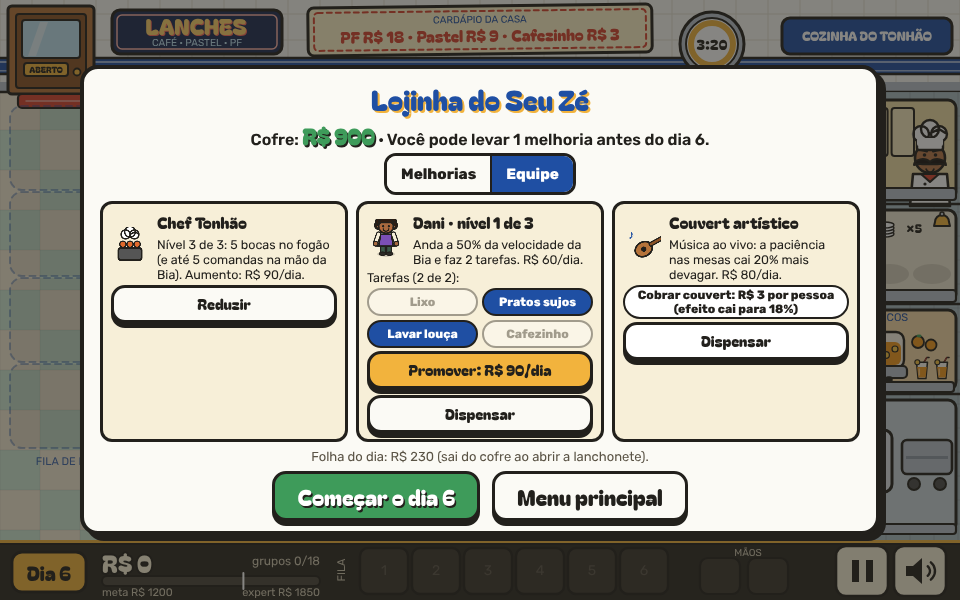
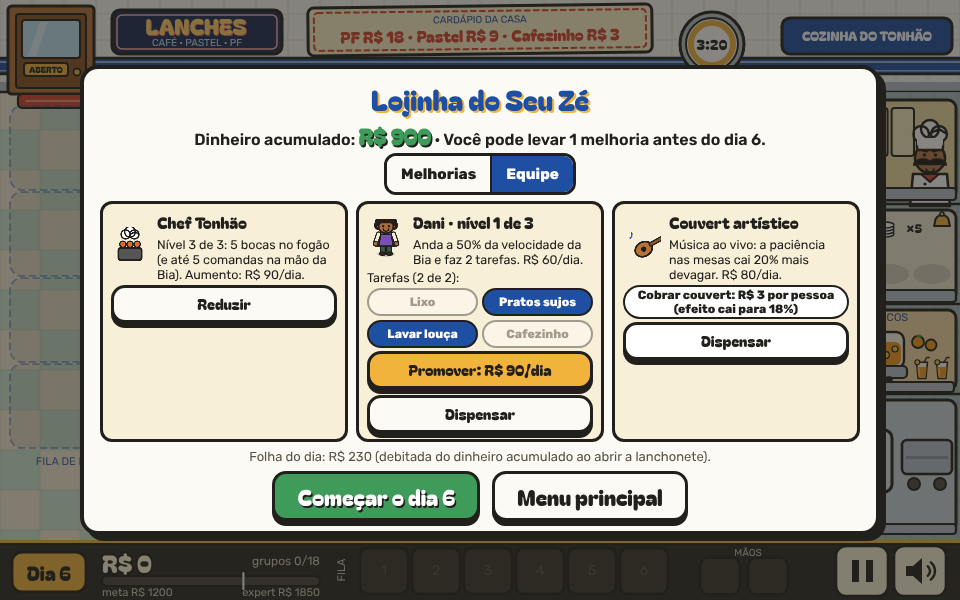
v5: dinheiro acumulado no lugar do cofre, lixeira transborda e Dani lava no ritmo dela
- Todo o faturamento vai para o dinheiro acumulado; a folha é debitada
  dele no início do dia (quem não puder ser pago não trabalha)
- Bebidas que não cabem na lixeira: ela aceita todas uma última vez e a
  Bia esvazia em seguida (pratos, louça e comandas ficam na mão)
- Dani lava a 50/65/80% do ritmo da Bia, como no deslocamento
- smoke6 com 48 testes

Claude-Session: https://claude.ai/code/session_014eUM1TJPrQ4AtSgVeDzYRp

Changed region(s): [[0.1875, 0.21, 0.8125, 0.27], [0.25, 0.75, 0.75, 0.78]]

diff --git a/lanchonete.html b/lanchonete.html
@@ -220,7 +220,7 @@ table.rank tr.me td{background:#fbe7a8}
     <div class="ov" id="ov-shop">
       <div class="panel">
         <h2>Lojinha do Seu Zé</h2>
-        <p>Cofre: <span class="bank" id="shop-bank">R$ 0</span> &middot; <span id="shop-limit">Você pode levar 1 melhoria por dia.</span></p>
+        <p>Dinheiro acumulado: <span class="bank" id="shop-bank">R$ 0</span> &middot; <span id="shop-limit">Você pode levar 1 melhoria por dia.</span></p>
         <div class="rankbar"><div class="seg" id="shop-tabs" role="group" aria-label="Lojinha">
           <button type="button" data-v="melhorias" aria-pressed="true">Melhorias</button>
           <button type="button" data-v="equipe" aria-pressed="false">Equipe</button>
@@ -371,7 +371,8 @@ const CUSTOMER_TYPES = {
 /* cliente VIP: modificador de grupo (qualquer tipo menos entregador). Fura a fila, tem menos
    paciência, paga gorjeta extra e dá bônus se sair com 5 corações; bravo, a multa dobra. */
 /* ============================================================
-   EQUIPE (v5): salários saem do cofre ao abrir a lanchonete
+   EQUIPE (v5): a folha do dia é debitada do dinheiro acumulado ao abrir a
+   lanchonete; sem dinheiro para pagar, o funcionário não trabalha naquele dia
    ============================================================ */
 const STAFF = {
   tonhao:  { levels:[ { slots:3, pay:0 }, { slots:4, pay:40 }, { slots:5, pay:90 } ] },
@@ -384,7 +385,6 @@ const DANI_TASKS = [
   { id:'lavar',  name:'Lavar a louça',  short:'Lavar louça' },
   { id:'cafe',   name:'Servir cafezinho', short:'Cafezinho' }
 ];
-const INCOME = 0.3;                                   // parte do faturamento de todo dia que vai para o cofre
 const WASH = { base:0.3, perPile:1.5 };               // segundos na pia
 const TRASH = { cap:8, empty:2, smell:0.15 };         // lixeira: capacidade, tempo para esvaziar, cheiro quando cheia
 function couvertEffect(eq){ return STAFF.couvert.effect * (eq.taxa ? 1 - STAFF.couvert.feeCut : 1); }
@@ -899,7 +899,11 @@ class Waitress {
       const piles = g.dani.does('lavar') ? 0 : this.hands.filter(h => h.kind === 'dirty').length + g.kitchen.sinkN;
       return WASH.base + WASH.perPile * piles;
     }
-    if (a.type === 'trash' && !this.hands.length && g.trash > 0) return TRASH.empty;
+    if (a.type === 'trash'){
+      const drinks = this.hands.filter(h => DRINKS[h.kind]).length;
+      if (!this.hands.length && g.trash > 0) return TRASH.empty;
+      if (drinks && drinks > TRASH.cap - g.trash) return 0.3 + TRASH.empty;   // não cabe: joga tudo e esvazia em seguida
+    }
     return 0.3;
   }
   update(dt){
@@ -995,9 +999,9 @@ class Waitress {
         if (!this.hands.length && g.trash > 0){ g.trash = 0; g.stats.emptied++; g.addText(this.x, this.y - 82, 'Lixo pra fora!', PAL.ok, 15); Sfx.noise(0.3, 0.1, 0, 400); return; }
         return this.fail(this.hands.length ? 'Mãos ocupadas!' : '?');
       }
-      const room = TRASH.cap - g.trash;
-      if (room <= 0) return this.fail('Lixo cheio!');
-      const fora = lixo.slice(0, room);
+      // se as bebidas não cabem, a lixeira aceita todas uma última vez e a Bia já esvazia em seguida
+      const overflow = lixo.length > TRASH.cap - g.trash;
+      const fora = lixo;
       fora.forEach(h => this.hands.splice(this.hands.indexOf(h), 1));
       g.addTrash(fora.length);
       const fine = fora.reduce((v,h) => v + DRINK_PRICE[h.kind] / 2, 0);
@@ -1006,6 +1010,7 @@ class Waitress {
       g.addText(this.x, this.y - 82, 'No lixo!', PAL.perigo, 15);
       g.addText(this.x, this.y - 104, '-' + (fine % 1 ? fine.toFixed(2).replace('.', ',') : fine), PAL.perigo, 18);
       Sfx.noise(0.18, 0.12, 0, 500); Sfx.tone(160, 0.12, 'square', 0.04);
+      if (overflow){ g.trash = 0; g.stats.emptied++; g.addText(this.x, this.y - 126, 'Lixo pra fora!', PAL.ok, 15); }
       return;
     }
     if (a.type === 'sink'){
@@ -1132,7 +1137,8 @@ class Helper {
     if (Math.hypot(this.x - DANI_HOME.x, this.y - DANI_HOME.y) > 4) return this.go(DANI_HOME, null);
   }
   duration(st){
-    if (st.type === 'sink') return WASH.base + (this.does('lavar') ? WASH.perPile * (this.g.kitchen.sinkN + this.hands.filter(h => h.kind === 'dirty').length) : 0);
+    // lava no mesmo ritmo do deslocamento: 50% da Bia leva o dobro do tempo por pilha
+    if (st.type === 'sink') return WASH.base + (this.does('lavar') ? WASH.perPile / this.spec.speed * (this.g.kitchen.sinkN + this.hands.filter(h => h.kind === 'dirty').length) : 0);
     if (st.type === 'trash') return TRASH.empty;
     return 0.35;
   }
@@ -1259,7 +1265,7 @@ class Game {
   }
   startDay(n){ this.resetDay(n); this.setState('intro'); }
   startEndless(){ this.resetDay(0); this.setState('intro'); }
-  /* paga a folha do dia com o cofre; quem não couber no cofre é dispensado (couvert, Dani, aumento do Tonhão) */
+  /* debita a folha do dia do dinheiro acumulado; quem não puder ser pago é dispensado (couvert, Dani, aumento do Tonhão) */
   payDay(){
     const eq = this.save.equipe; this.unpaid = [];
     while (payroll(eq) > this.save.bank){
@@ -1276,7 +1282,7 @@ class Game {
   }
   begin(){
     this.payDay(); this.setState('playing');
-    if (this.unpaid.length) this.addText(W/2, 300, 'Cofre sem dinheiro: sem ' + this.unpaid.join(', ') + ' hoje', PAL.perigo, 20);
+    if (this.unpaid.length) this.addText(W/2, 300, 'Sem dinheiro para pagar: sem ' + this.unpaid.join(', ') + ' hoje', PAL.perigo, 20);
   }
   get trashFull(){ return this.trash >= TRASH.cap; }
   /* restos no lixo: +n, até encher */
@@ -1590,7 +1596,7 @@ class Game {
     if (m >= d.expert) stars = 2;
     if (m >= d.expert && this.stats.lost === 0) stars = 3;
     const prevBest = this.save.best[d.n] || 0;
-    const income = Math.round(m * INCOME) + Math.max(0, m - prevBest);
+    const income = m;                 // todo o faturamento do dia vai para o dinheiro acumulado
     this.save.bank += income;
     this.save.best[d.n] = Math.max(prevBest, m);
     this.save.stars[d.n] = Math.max(this.save.stars[d.n] || 0, stars);
@@ -1602,7 +1608,7 @@ class Game {
   }
   finishEndless(){
     const pts = Math.round(this.money);
-    const income = Math.round(pts * INCOME);
+    const income = pts;
     this.save.bank += income; writeSave(this.save);
     this.endless = { income, paid:this.paid, pontos:pts, tempo:Math.floor(this.elapsed), served:this.stats.served, lost:this.stats.lost, full:this.stats.full, chain:this.stats.chain, vip:this.stats.vip, juice:this.stats.juice };
     this.setState('endlessend');
@@ -1619,7 +1625,7 @@ class Game {
     this.resetDay(this.shopNext);   // o salão ao fundo já mostra o dia que vem
     this.setState('shop');
   }
-  /* equipe: mudanças à vontade na lojinha, desde que o cofre pague a folha do próximo dia */
+  /* equipe: mudanças à vontade na lojinha, desde que o dinheiro acumulado pague a folha do próximo dia */
   setStaff(key, val){
     const eq = this.save.equipe, old = eq[key];
     eq[key] = val;
@@ -3072,7 +3078,7 @@ function buildShop(){
   $('shop-limit').textContent = game.shopBought ? 'Melhoria do dia ' + game.shopNext + ' já escolhida.' : 'Você pode levar 1 melhoria antes do dia ' + game.shopNext + '.';
   $('btn-shop-go').textContent = 'Começar o dia ' + game.shopNext;
   const f = payroll(game.save.equipe);
-  $('shop-folha').textContent = f ? 'Folha do dia: ' + fmt(f) + ' (sai do cofre ao abrir a lanchonete).' : 'Sem folha: contrate na aba Equipe. Os salários saem do cofre a cada dia.';
+  $('shop-folha').textContent = f ? 'Folha do dia: ' + fmt(f) + ' (debitada do dinheiro acumulado ao abrir a lanchonete).' : 'Sem folha: contrate na aba Equipe. Os salários são debitados do dinheiro acumulado no início de cada dia.';
   if (shopTab === 'equipe') return buildEquipe(grid);
   UPGRADES.forEach(u => {
     const own = !!game.up[u.id];
@@ -3099,7 +3105,7 @@ function buildEnd(){
   $('end-money').textContent = 'Você faturou ' + fmt(r.money) + ' (meta ' + fmt(r.meta) + ' · expert ' + fmt(r.expert) + ')';
   const st = $('end-stats');
   clearEl(st);
-  const rows = [['Atendidos', r.served],['Perdidos', r.lost],['Não couberam', r.full],['Maior corrente', '×' + r.chain],['Para o cofre', '+' + fmt(r.income) + (r.paid ? ' (folha paga: ' + fmt(r.paid) + ')' : '')],['Cofre', fmt(game.save.bank)]];
+  const rows = [['Atendidos', r.served],['Perdidos', r.lost],['Não couberam', r.full],['Maior corrente', '×' + r.chain],['Folha paga hoje', r.paid ? '-' + fmt(r.paid) : '-'],['Dinheiro acumulado', fmt(game.save.bank)]];
   if (r.trash) rows.splice(2, 0, ['Na lixeira', r.trash + ' bebida' + (r.trash > 1 ? 's' : '')]);
   if (r.juice || r.juiceMiss) rows.splice(2, 0, ['Sucos', r.juice + ' entregue' + (r.juice === 1 ? '' : 's') + (r.juiceMiss ? ' · ' + r.juiceMiss + ' mesa' + (r.juiceMiss > 1 ? 's' : '') + ' sem suco' : '')]);
   if (r.vip || r.vipLost) rows.splice(2, 0, ['VIPs', r.vip + ' atendido' + (r.vip === 1 ? '' : 's') + (r.vipLost ? ' · ' + r.vipLost + ' bravo' + (r.vipLost > 1 ? 's' : '') : '')]);
@@ -3134,7 +3140,7 @@ function buildEndless(){
   if (!r) return;
   const st = $('endless-stats');
   clearEl(st);
-  [['Pontos', r.pontos],['Tempo sobrevivido', mmssUp(r.tempo)],['Grupos atendidos', r.served],['VIPs atendidos', r.vip],['Sucos entregues', r.juice],['Maior corrente', '×' + r.chain],['Não couberam na fila', r.full],['Para o cofre', '+' + fmt(r.income)]].forEach(p => {
+  [['Pontos', r.pontos],['Tempo sobrevivido', mmssUp(r.tempo)],['Grupos atendidos', r.served],['VIPs atendidos', r.vip],['Sucos entregues', r.juice],['Maior corrente', '×' + r.chain],['Não couberam na fila', r.full],['Dinheiro acumulado', fmt(game.save.bank)]].forEach(p => {
     st.appendChild(el('span', null, p[0])); st.appendChild(el('b', null, String(p[1])));
   });
   buildSaveForm($('endless-save'), 'semfim');
@@ -3342,7 +3348,7 @@ fit();
 try { Rank.init(); } catch(e) {}
 game.setState('menu');
 window.__game = game;
-window.__lcc = { STAFF, DANI_TASKS, TRASH, WASH, INCOME, payroll, couvertEffect, dishStock, normSave, Helper, JUICE, KITCHEN_SLOTS, handLayout, trayOk, Game, Group, Table, Kitchen, Waitress, DAYS, UPGRADES, CUSTOMER_TYPES, LAYOUT, PAL, Sfx, findPath, render, Rank, sortRows, cleanName, normName, CMD, ENDLESS, VIP, rk, renderRank, openRank, closeRank, LS, lsGet, lsSet, loadSave };
+window.__lcc = { STAFF, DANI_TASKS, TRASH, WASH, payroll, couvertEffect, dishStock, normSave, Helper, JUICE, KITCHEN_SLOTS, handLayout, trayOk, Game, Group, Table, Kitchen, Waitress, DAYS, UPGRADES, CUSTOMER_TYPES, LAYOUT, PAL, Sfx, findPath, render, Rank, sortRows, cleanName, normName, CMD, ENDLESS, VIP, rk, renderRank, openRank, closeRank, LS, lsGet, lsSet, loadSave };
 window.requestAnimationFrame(frame);
 
 })();

diff --git a/docs/spec-v5.md b/docs/spec-v5.md
@@ -2,11 +2,12 @@
 
 Pedido: sobra dinheiro no cofre. Entram contratações com salário, aumento do Tonhão, louça limitada com a Bia lavando, lixo que enche e couvert artístico. A proposta original tinha robôs para o lixo e a louça, mas o usuário vetou: só pessoas.
 
-## Economia
-- O cofre recebe **30% do faturamento de todo dia** (`INCOME`), mais o que passar do recorde do dia. No Turno sem fim, só os 30%.
-- **Folha do dia** (`payroll(equipe)`): sai do cofre ao clicar em "Abrir a lanchonete" (`Game.payDay`), inclusive no Turno sem fim. A meta continua sobre o faturamento bruto.
-- **Cofre sem dinheiro para a folha:** dispensa, nesta ordem, o couvert, a Dani e um nível de aumento do Tonhão, e avisa na tela.
-- **Na lojinha** (`setStaff`): só deixa contratar o que o cofre consegue pagar no dia seguinte. Contratar e dispensar não contam no limite de 1 melhoria por dia.
+## Economia (revisada a pedido do usuário: sem "cofre")
+- **Dinheiro acumulado** (`save.bank`): recebe **todo o faturamento** de cada dia de carreira e de cada Turno sem fim. Antes era só o que passava do recorde, e na primeira v5 eram 30%.
+- **Folha do dia** (`payroll(equipe)`): é **debitada no início do dia**, ao clicar em "Abrir a lanchonete" (`Game.payDay`). O faturamento do dia nunca entra na conta para pagar a equipe.
+- **Sem dinheiro para pagar todos:** o funcionário não trabalha naquele dia e é dispensado, nesta ordem: couvert, Dani, um nível de aumento do Tonhão. Aparece o aviso "Sem dinheiro para pagar: …".
+- **Contratar na lojinha** (`setStaff`): só é possível se o dinheiro acumulado cobrir a folha nova. Contratar e dispensar não contam no limite de 1 melhoria por dia.
+- **Telas:** a lojinha mostra "Dinheiro acumulado"; o fim do dia mostra "Folha paga hoje" e "Dinheiro acumulado".
 - **Save:** `save.equipe = { tonhao, dani, daniTasks, couvert, taxa }`, normalizado por `normEquipe`.
 
 ## Lojinha com abas
@@ -49,6 +50,7 @@ Pedido: sobra dinheiro no cofre. Entram contratações com salário, aumento do 
 
 ## Lixeira que enche (`TRASH`)
 - Capacidade de 8. Enche com os restos de cada pilha lavada e com cada bebida jogada fora.
+- **Sem espaço para as bebidas que a Bia traz** (lixeira cheia ou vagas a menos): a lixeira aceita todas as bebidas uma última vez e a Bia já a esvazia em seguida (0,3 s + 2 s). Pratos e louça suja ficam na mão. Comandas também ficam, para não perder pedidos.
 - **Cheia:** recusa bebidas ("Lixo cheio!") e o cheiro faz a paciência de todos cair 15% mais rápido. Aparecem a placa "CHEIO" e as linhas de cheiro, e o nível fica numa régua de 8 tracinhos ao lado da lixeira.
 - **Esvaziar:** a Bia toca na lixeira de mãos vazias e leva 2 s. A Dani faz isso se a tarefa estiver escolhida.
 

diff --git a/docs/RESUMO.md b/docs/RESUMO.md
@@ -1,7 +1,7 @@
 # Resumo do projeto e das alterações (até 14/10/2026)
 
 ## Estado atual
-- **Versão:** v5, publicada como Versão 10 do artifact https://claude.ai/artifact/MJxrgDg8S4akvg47SoQAvj (privado).
+- **Versão:** v5, publicada como Versão 11 do artifact https://claude.ai/artifact/MJxrgDg8S4akvg47SoQAvj (privado).
 - **Branch:** `claude/elegant-curie-sgcl11` no repositório `aarescigno/Lanchonete-corre-corre`.
 - **Arquivos publicados:** `lanchonete.html` (página), mais `versoes/v1.html`, `versoes/v2.html`, `versoes/v3.html` e `versoes/v4.html`, abertos pelo painel Versões.
 - **Capacidades declaradas (mantidas ao republicar sem `capabilities`):**
@@ -44,12 +44,13 @@
 7. **Lojinha antes de cada dia**: do dia 2 em diante, escolher o dia (ou repetir) abre a lojinha primeiro, com "Começar o dia N" e "Menu principal"; ainda 1 melhoria por dia. O fim do dia oferece "Melhorias e dia N+1" e "Menu principal".
 
 8. **v5, Equipe** (ver `docs/spec-v5.md`):
-   - **Economia:** o cofre recebe 30% do faturamento de todo dia; a folha sai do cofre ao abrir a lanchonete.
+   - **Economia (sem "cofre"):** todo o faturamento vai para o dinheiro acumulado; a folha é debitada dele no início do dia.
    - **Lojinha** com abas Melhorias e Equipe.
    - **Tonhão:** aumento de 3 para 4 e 5 bocas, com +R$ 40 e +R$ 90 por dia.
    - **Dani, a ajudante (sem robôs):** níveis com 50%, 65% e 80% da velocidade da Bia e 2, 2 e 3 tarefas, por R$ 60, R$ 90 e R$ 135 por dia. Tarefas escolhidas na lojinha: lixo, pratos sujos, lavar louça e cafezinho.
    - **Louça:** limitada a partir do dia 3; lavar leva 1,5 s por pilha; sem prato limpo, o Tonhão espera.
-   - **Lixeira:** enche (8 itens); cheia, recusa bebidas e o cheiro acelera a impaciência; esvaziar leva 2 s.
+   - **Lixeira:** enche (8 itens); cheia, o cheiro acelera a impaciência; esvaziar leva 2 s. Se as bebidas da Bia não cabem, a lixeira aceita todas uma última vez e ela esvazia em seguida.
+   - **Dani lava** no mesmo ritmo do deslocamento (50%, 65% ou 80% da Bia).
    - **Couvert artístico:** R$ 80 por dia, paciência nas mesas −20%; com a taxa de R$ 3 por pessoa, −18%.
    - **Água saborizada:** substitui a Jukebox.
    - **Metas:** dias 6 e 7 em R$ 1200 e R$ 1250.
@@ -60,7 +61,7 @@
 - `smoke3` (120/120: v2);
 - `smoke4` (23/23: VIP);
 - `smoke5` (41/41: sucos, bandeja e lixeira);
-- `smoke6` (43/43: equipe, louça, lixeira que enche, couvert, água, economia);
+- `smoke6` (48/48: equipe, louça, lixeira que enche, couvert, água, economia);
 - `menu_fit` (14 tamanhos de tela);
 - `balance` (bot, N rodadas por dia).
 

diff --git a/docs/HISTORICO.md b/docs/HISTORICO.md
@@ -90,3 +90,13 @@
 - Tudo numa v5 só.
 - "Eficácia −10%" foi lido como relativo: o efeito de 20% vira 18%.
 - A Dani anda mais devagar, mas lava na mesma velocidade da Bia (1,5 s por pilha).
+
+## 14/10/2026: ajustes da v5
+**Pedido:**
+- Tirar o "cofre": o salário sai do total de dinheiro acumulado, debitado no início do dia, sem contar com a entrada do dia.
+- Lixo cheio com café na mão não tinha como ser esvaziado: nesse caso a lixeira aceita o que está na mão (menos pratos) uma última vez e é esvaziada logo em seguida.
+- A Dani lava mais devagar que a Bia, na mesma proporção do deslocamento.
+
+**Decisões:**
+- O dinheiro acumulado recebe 100% do faturamento.
+- As comandas também ficam na mão, como os pratos, porque jogá-las fora faria a mesa perder o pedido.
